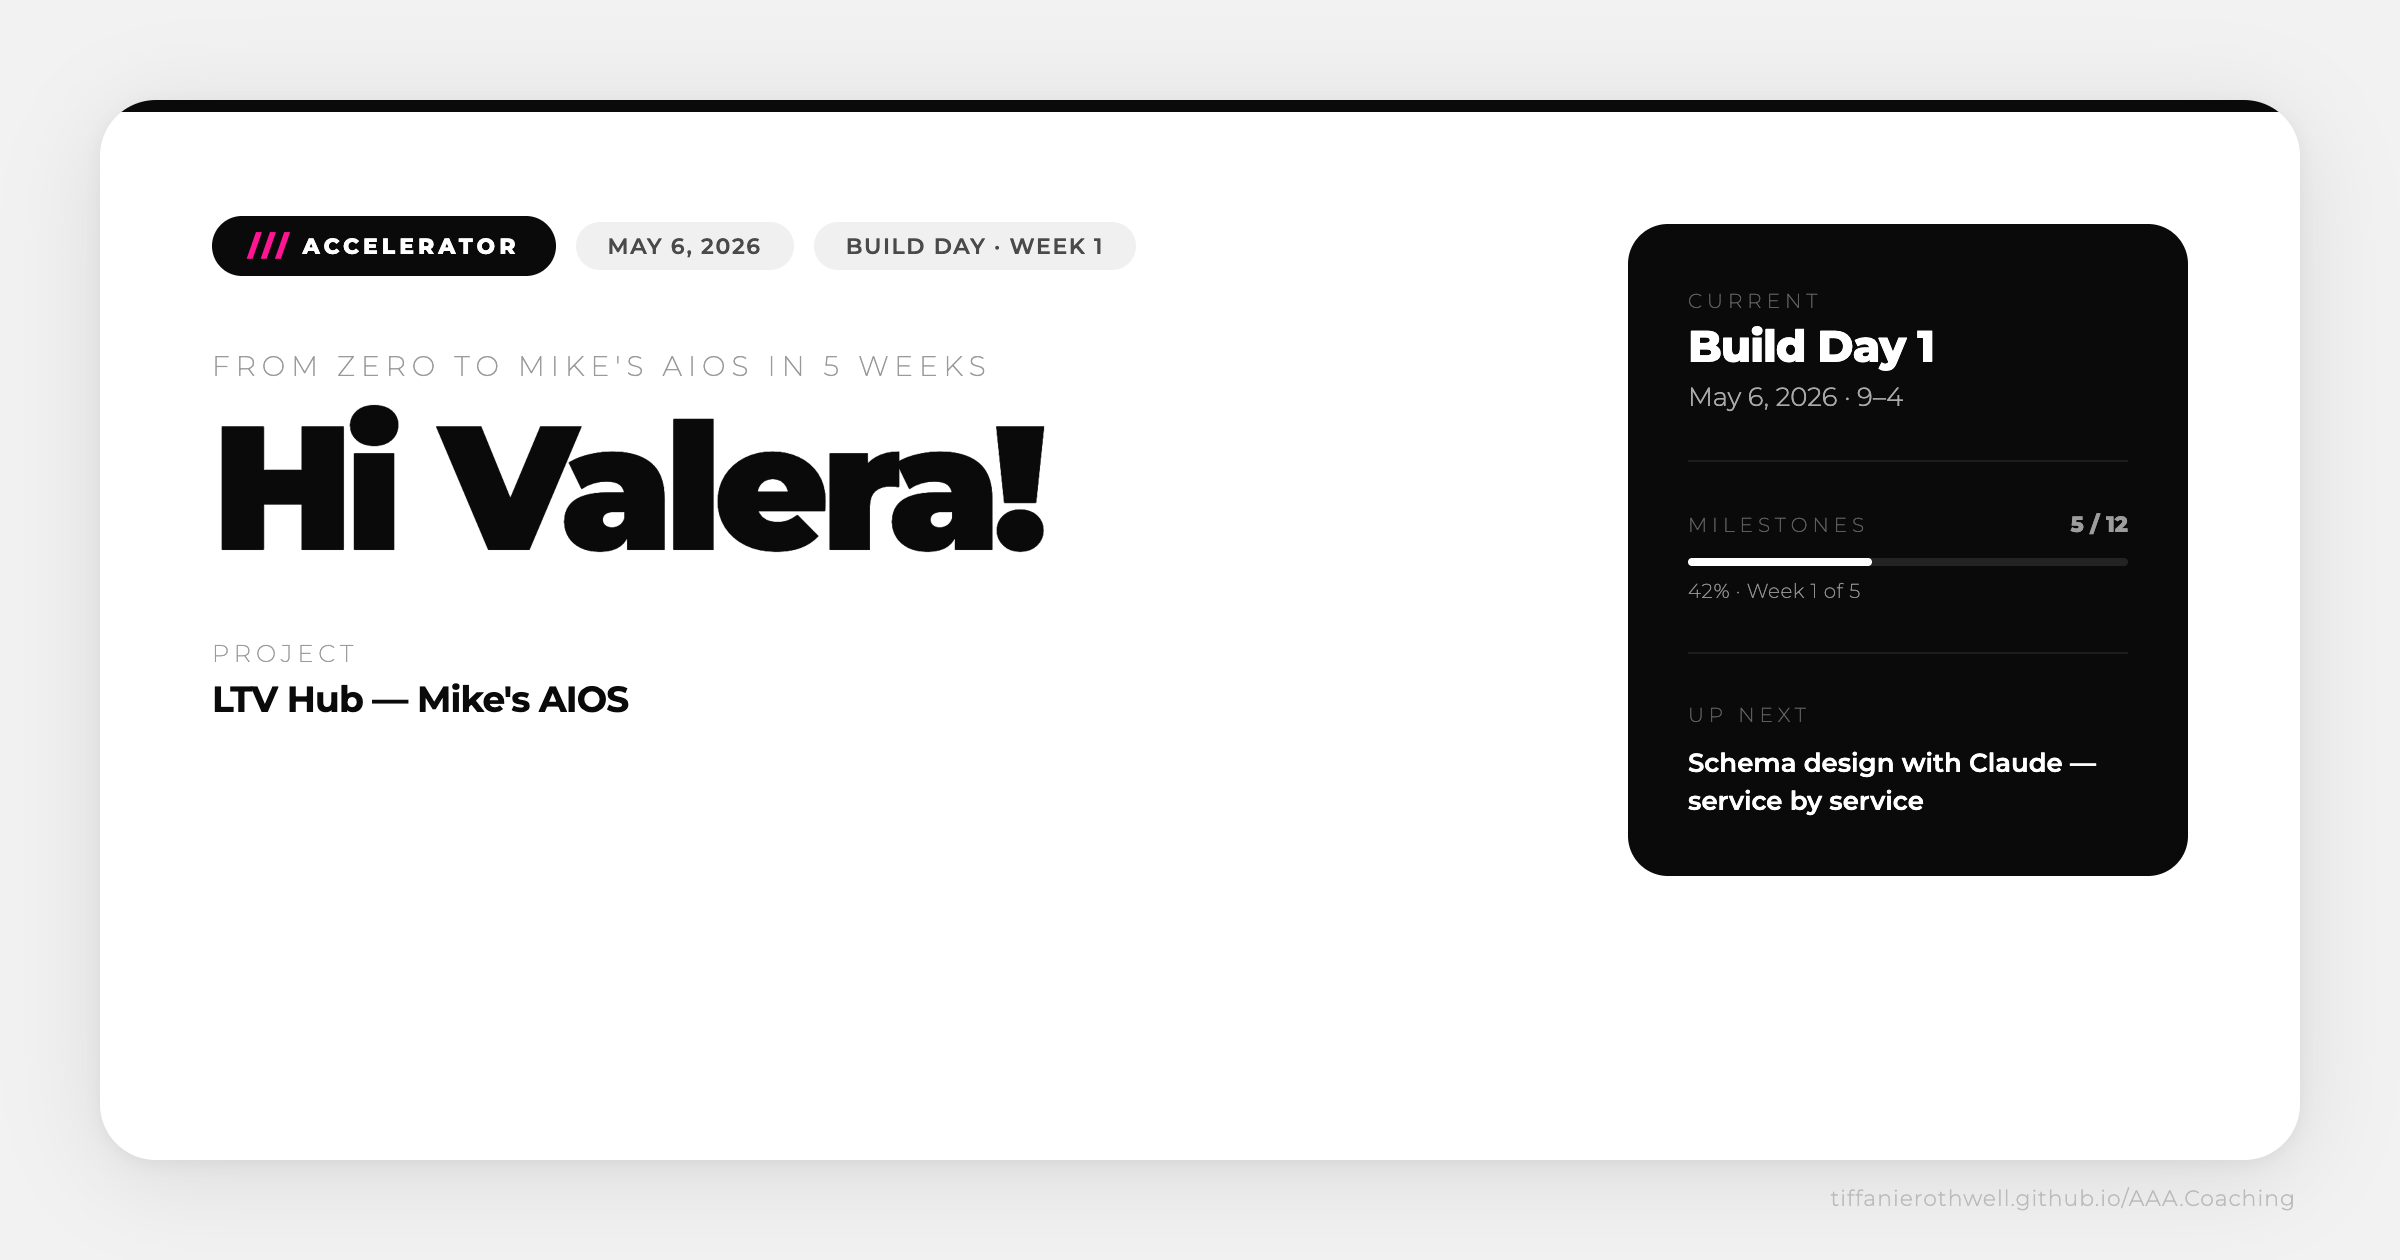
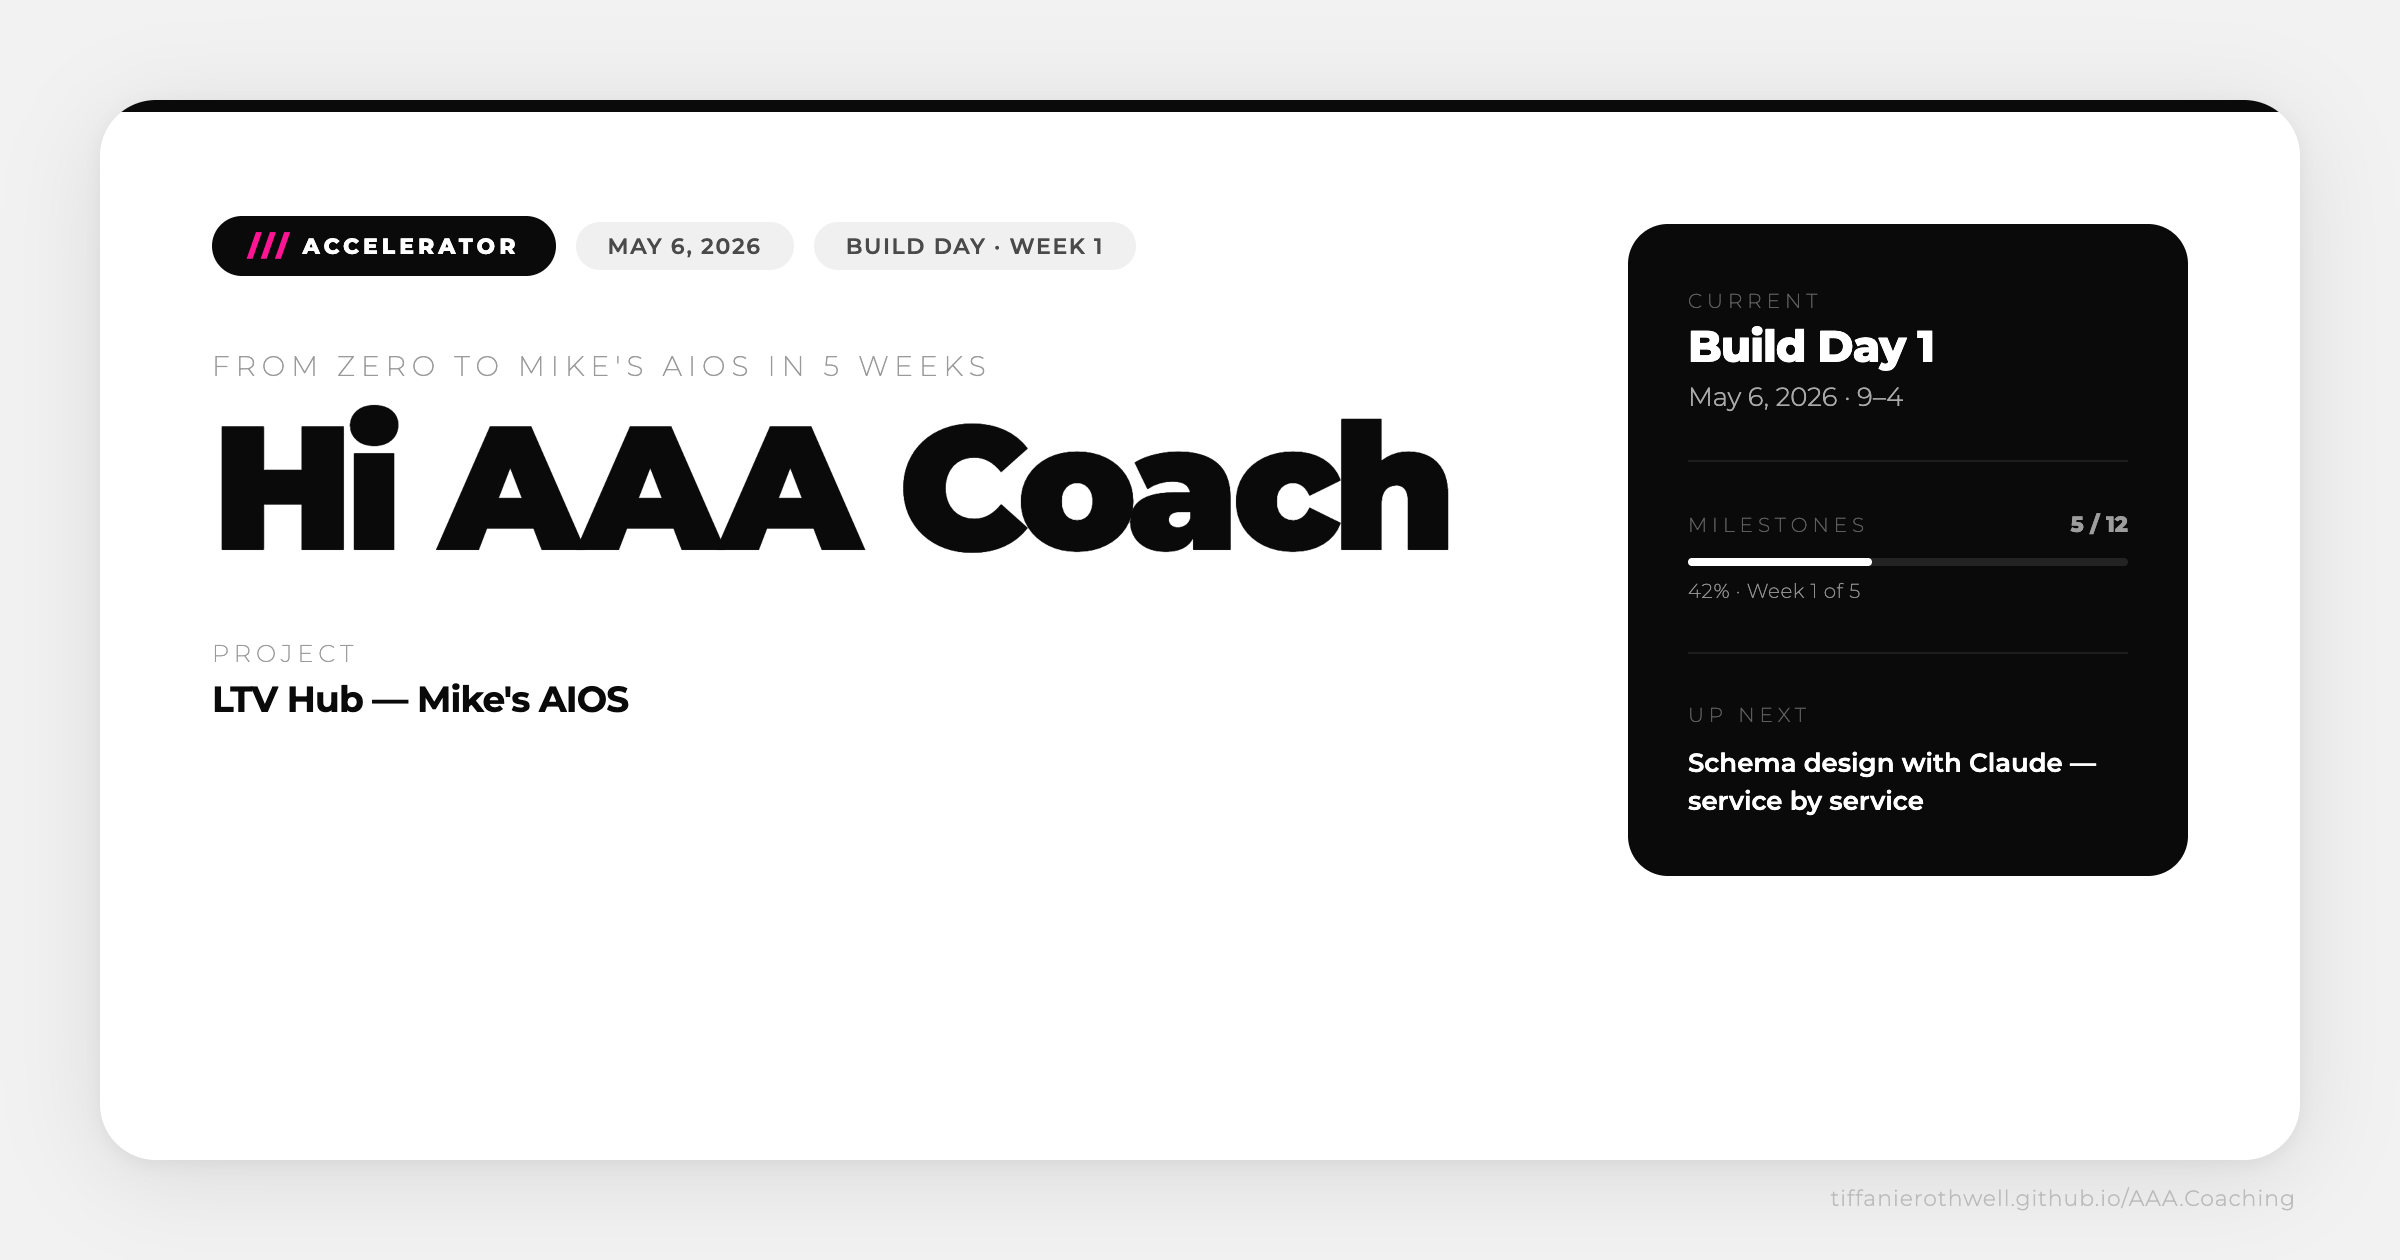
Change hero headline from Hi Valera to Hi AAA Coach
Updates the hero in App.tsx, the OG image generator, and the
og:title / twitter:title meta tags so link previews match.

Changed region(s): [[0.1875, 0.3095, 0.625, 0.4333]]

diff --git a/index.html b/index.html
@@ -9,7 +9,7 @@
     <!-- Open Graph / link preview -->
     <meta property="og:type"        content="website" />
     <meta property="og:url"         content="https://tiffanierothwell.github.io/AAA.Coaching/" />
-    <meta property="og:title"       content="Hi Valera! — LTV Hub · Mike's AIOS" />
+    <meta property="og:title"       content="Hi AAA Coach — LTV Hub · Mike's AIOS" />
     <meta property="og:description" content="Coaching dashboard for Mike's AIOS / LTV Hub build. Python + FastAPI + Supabase on Andre's server. Week 1 of 5 · May 2026." />
     <meta property="og:image"       content="https://tiffanierothwell.github.io/AAA.Coaching/og-image.png" />
     <meta property="og:image:width"  content="1200" />
@@ -17,7 +17,7 @@
 
     <!-- Twitter / X card -->
     <meta name="twitter:card"        content="summary_large_image" />
-    <meta name="twitter:title"       content="Hi Valera! — LTV Hub · Mike's AIOS" />
+    <meta name="twitter:title"       content="Hi AAA Coach — LTV Hub · Mike's AIOS" />
     <meta name="twitter:description" content="Coaching dashboard for Mike's AIOS / LTV Hub build. Python + FastAPI + Supabase on Andre's server. Week 1 of 5 · May 2026." />
     <meta name="twitter:image"       content="https://tiffanierothwell.github.io/AAA.Coaching/og-image.png" />
     <link rel="preconnect" href="https://fonts.googleapis.com" />

diff --git a/src/App.tsx b/src/App.tsx
@@ -1242,7 +1242,7 @@ export default function App() {
                 <h1 style={{
                   fontFamily: FONT, fontWeight: 900, fontSize: isMobile ? 44 : 68,
                   color: INK, letterSpacing: isMobile ? -1.5 : -3, lineHeight: 0.92, margin: 0,
-                }}>Hi Valera!</h1>
+                }}>Hi AAA Coach</h1>
               </div>
 
               <div style={{ display: "flex", flexDirection: "column" as const, gap: 3 }}>